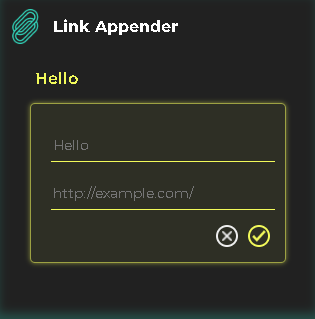
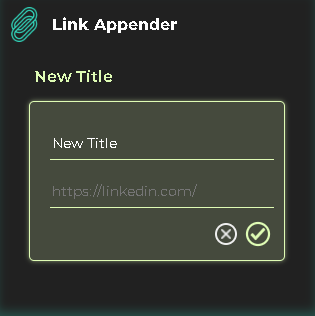
styling changes

diff --git a/src/components/styled/Wrap.js b/src/components/styled/Wrap.js
@@ -7,9 +7,9 @@ export default styled.div`
     align-items: ${prop => prop.newBase ? "end" : "center"};
     margin: ${prop => prop.newBaseButtons ? "15px 0 0 0" : "0"};
     padding: ${prop => prop.newBaseButtons ? "null" : "10px"};
-    border: ${prop => prop.editBase ? "1px solid #F2FA5A90" : null};
+    border: ${prop => prop.editBase ? "1px solid #DFFCB5" : null};
     border-radius: ${prop => prop.editBase ? "5px" : null};;
     margin-top: ${prop => prop.editBase ? "30px" : null};;
-    background-color: ${prop => prop.editBase ? "#F2FA5A10" : null};
-    box-shadow: ${prop => prop.editBase ? "0 0 5px #F2FA5A80" : null};
+    background-color: ${prop => prop.editBase ? "#DFFCB530" : null};
+    box-shadow: ${prop => prop.editBase ? "0 0 5px #DFFCB580" : null};
 `

diff --git a/src/components/styled/Input.js b/src/components/styled/Input.js
@@ -5,7 +5,7 @@ export default styled.input`
     height: 30px;
     width: 94%;
     background: transparent;
-    border: ${prop => prop.editBase ? "#F2FA5A solid" : "#32E0C4 solid"};
+    border: ${prop => prop.editBase ? "#DFFCB5 solid" : "#32E0C4 solid"};
     border-width: 0 0 1px 0;
     &:focus {
         outline: none;

diff --git a/src/index.css b/src/index.css
@@ -38,5 +38,5 @@ a {
   text-transform: capitalize;
   font-weight: 600;
   font-size: 16px;
-  color: #F2FA5A;
+  color: #DFFCB5;
 }
